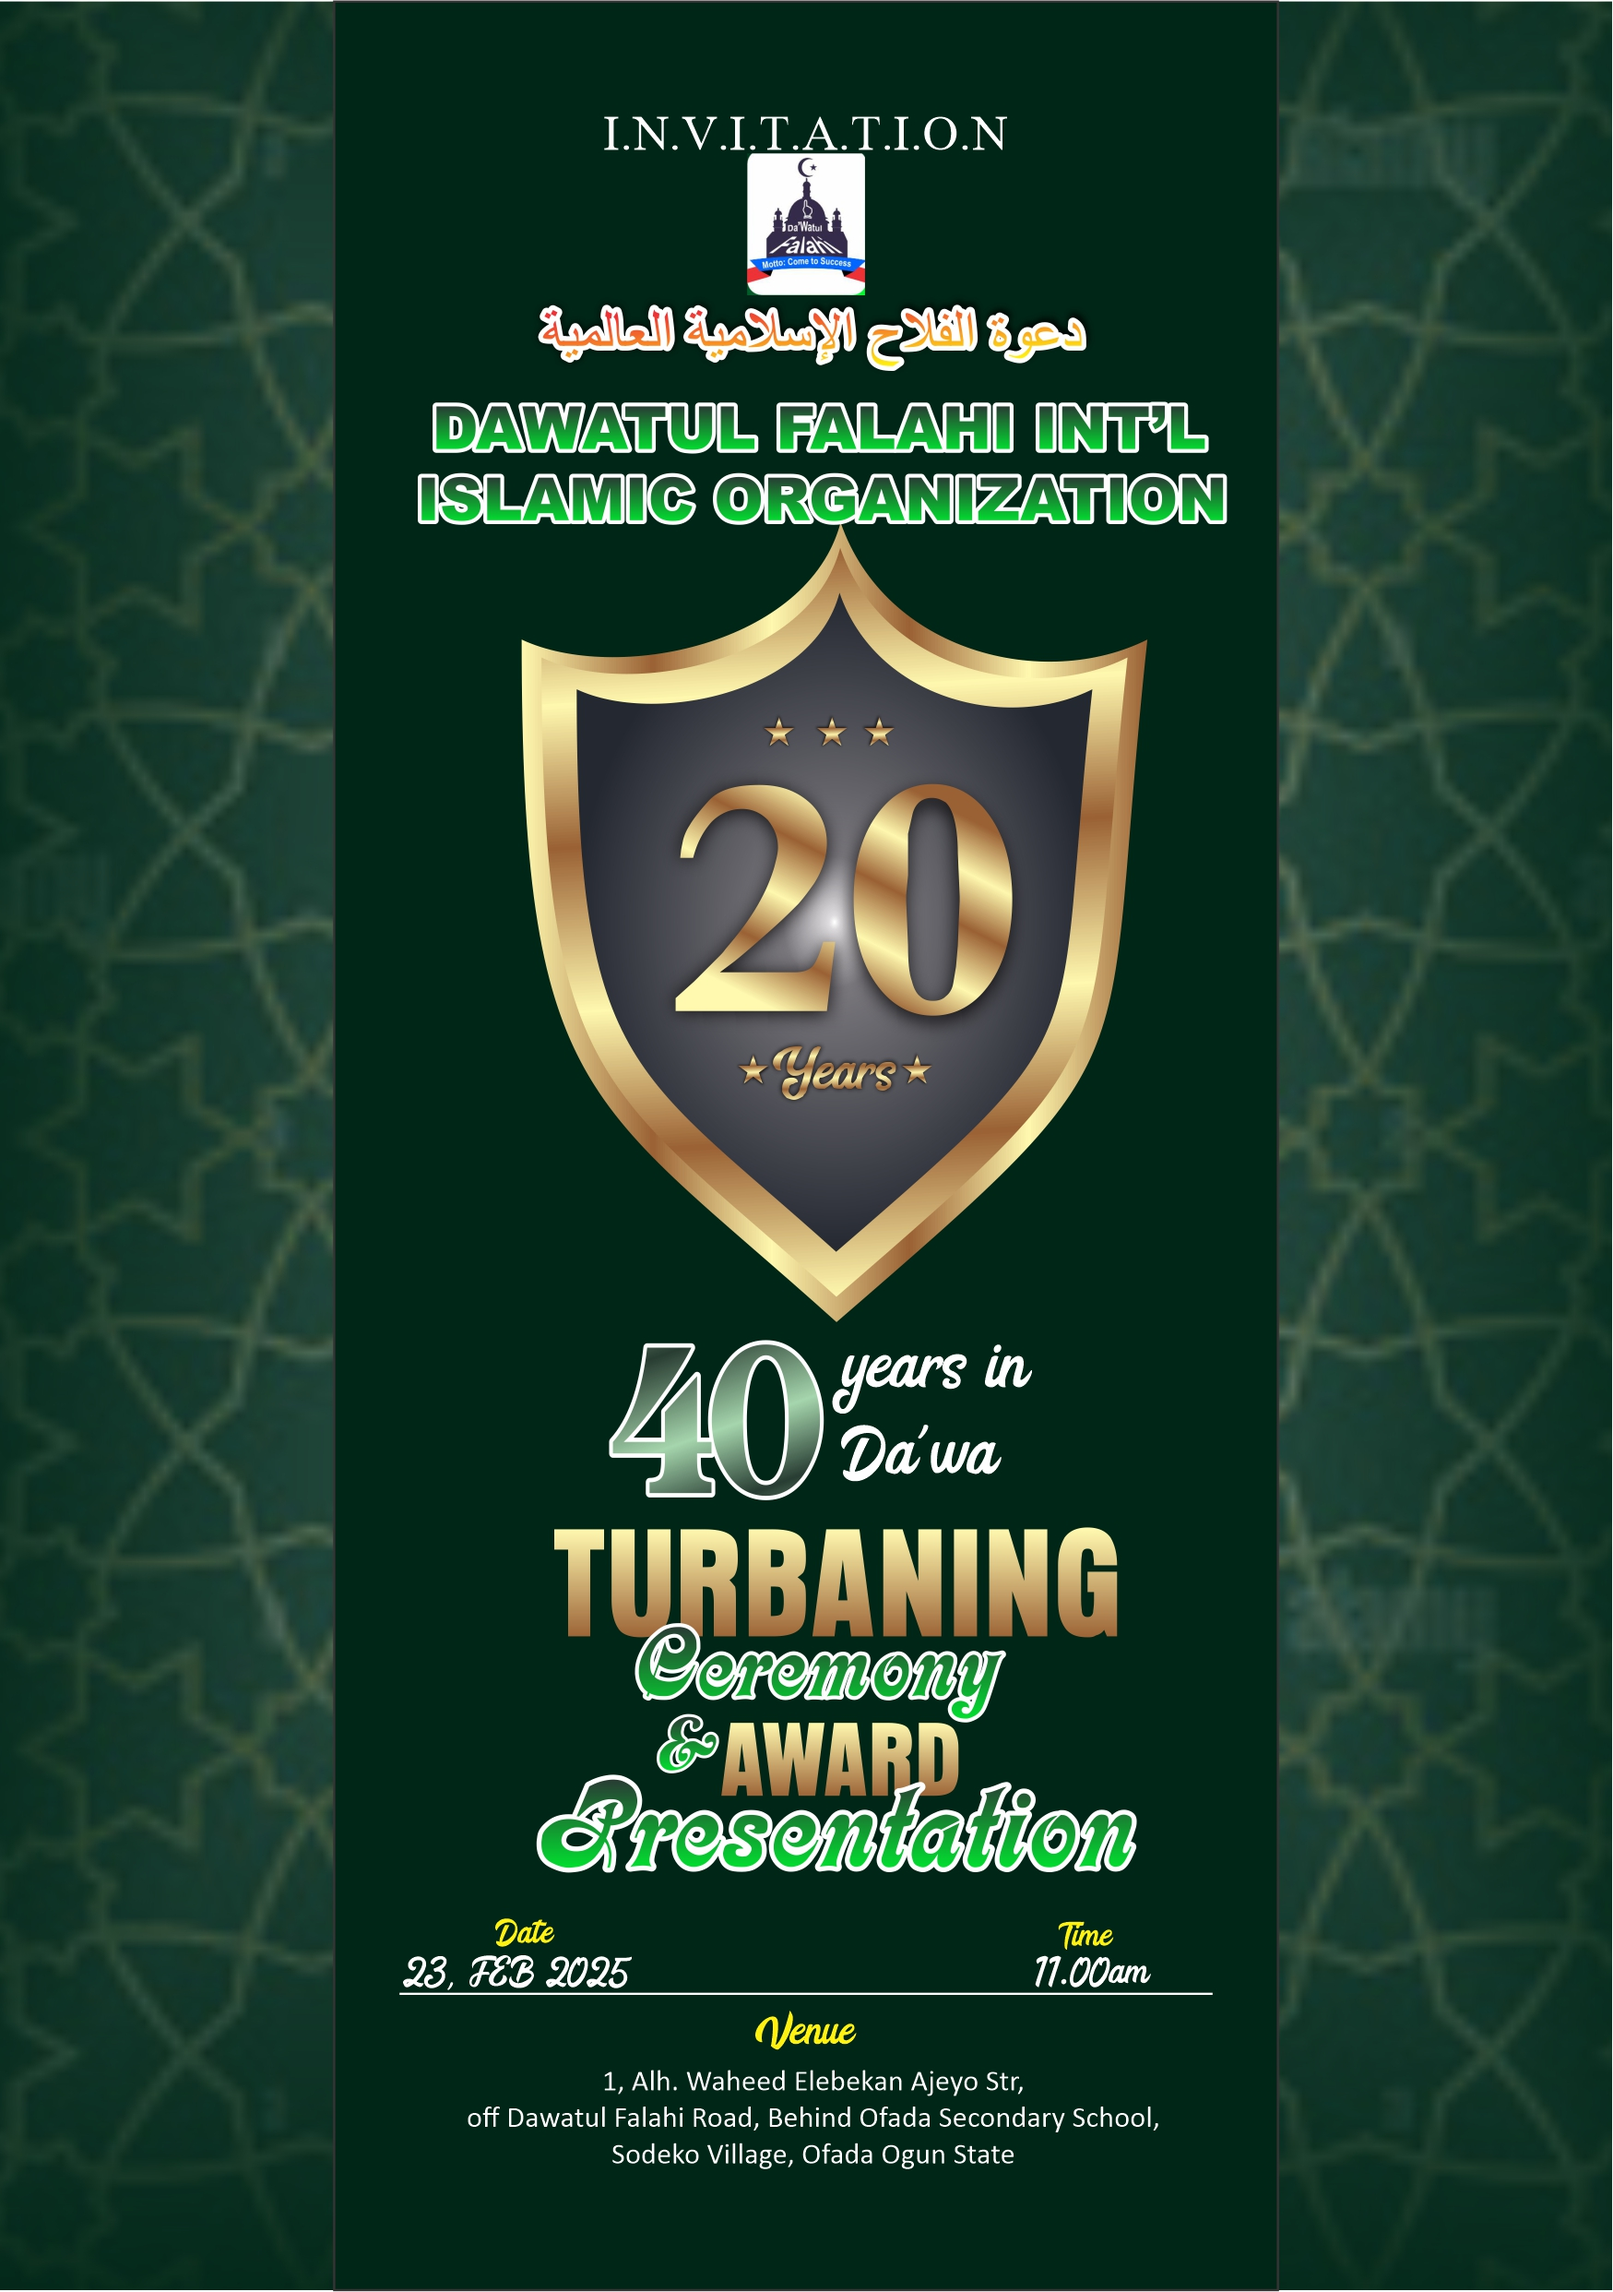
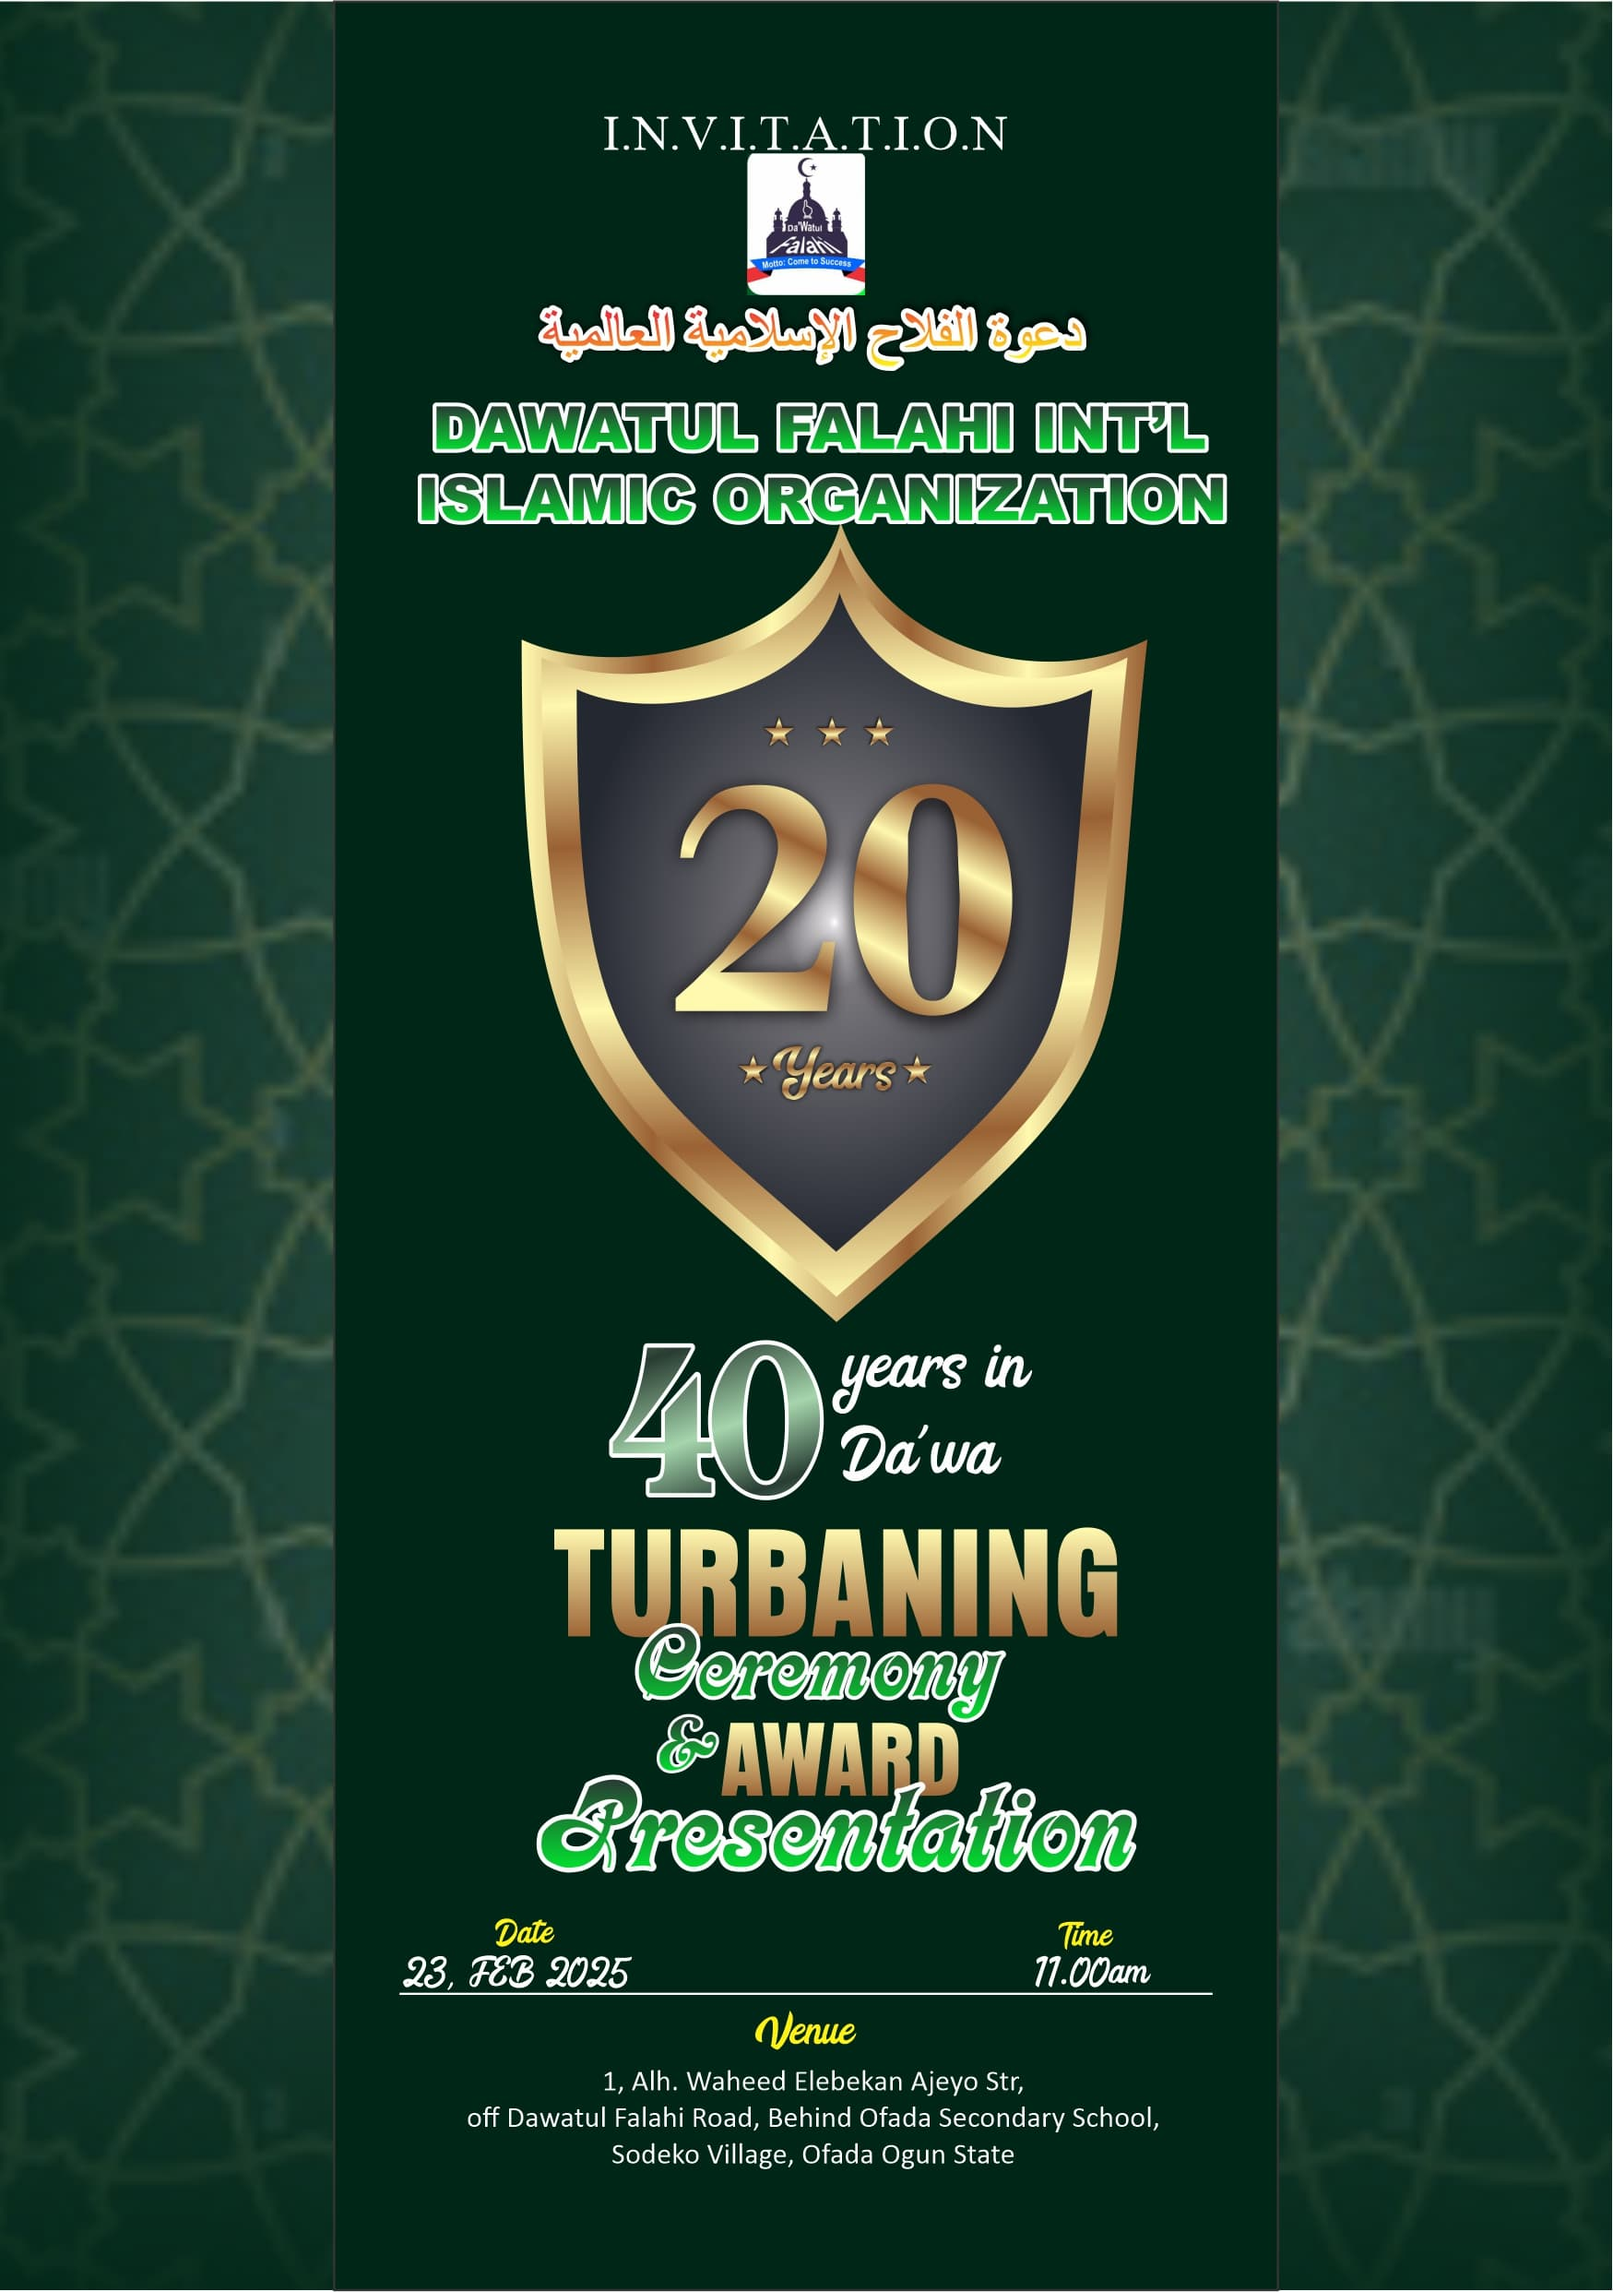
Replace with compressed images

diff --git a/index.html b/index.html
@@ -843,7 +843,7 @@
             <div class="projects-container">
                 <!-- Project 1 -->
                 <div class="project-card glass">
-                    <img src="edu-ai interface.png" alt="Project 1">
+                    <img src="edu-ai interface.jpg" alt="Project 1">
                     <div class="project-info">
                         <h3>Edu AI Website</h3>
                         <p>Edu AI revolutionizes education by providing personalized, intelligent tutoring that adapts to your unique learning style and pace..</p>
@@ -855,7 +855,7 @@
                 </div>
                 <!-- Project 2 -->
                 <div class="project-card glass">
-                    <img src="WhatsApp Image 2025-09-12 at 4.34.54 PM.jpeg" alt="Project 2">
+                    <img src="WhatsApp Image 2025-09-12 at 4.34.54 PM.jpg" alt="Project 2">
                     <div class="project-info">
                         <h3>Tic Tac Toe Game</h3>
                         <p>Tic Tac Toe brings fun and strategy together, offering an interactive game where two players compete to outsmart each other. 
